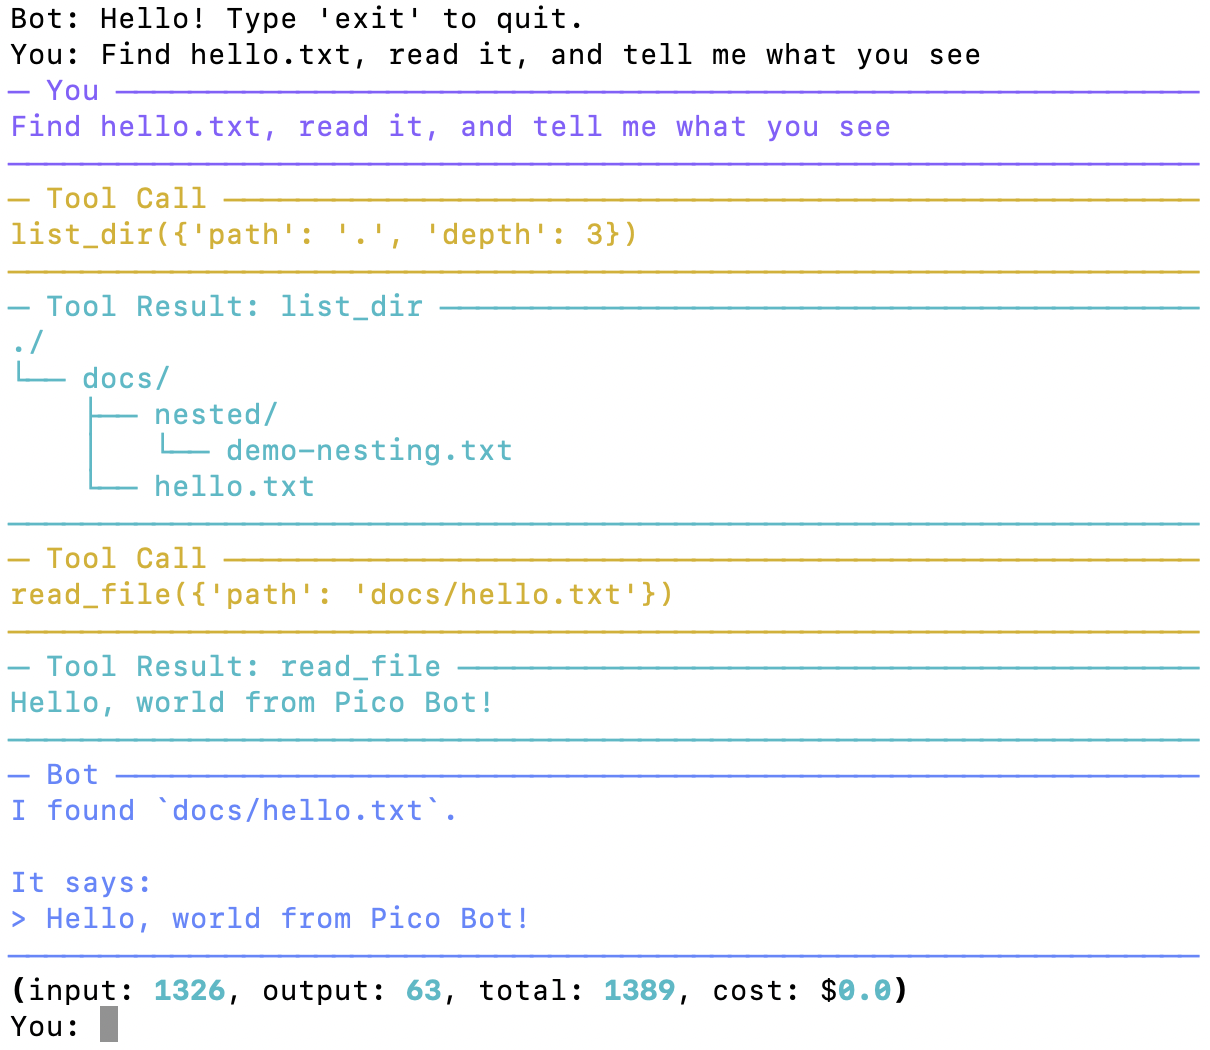
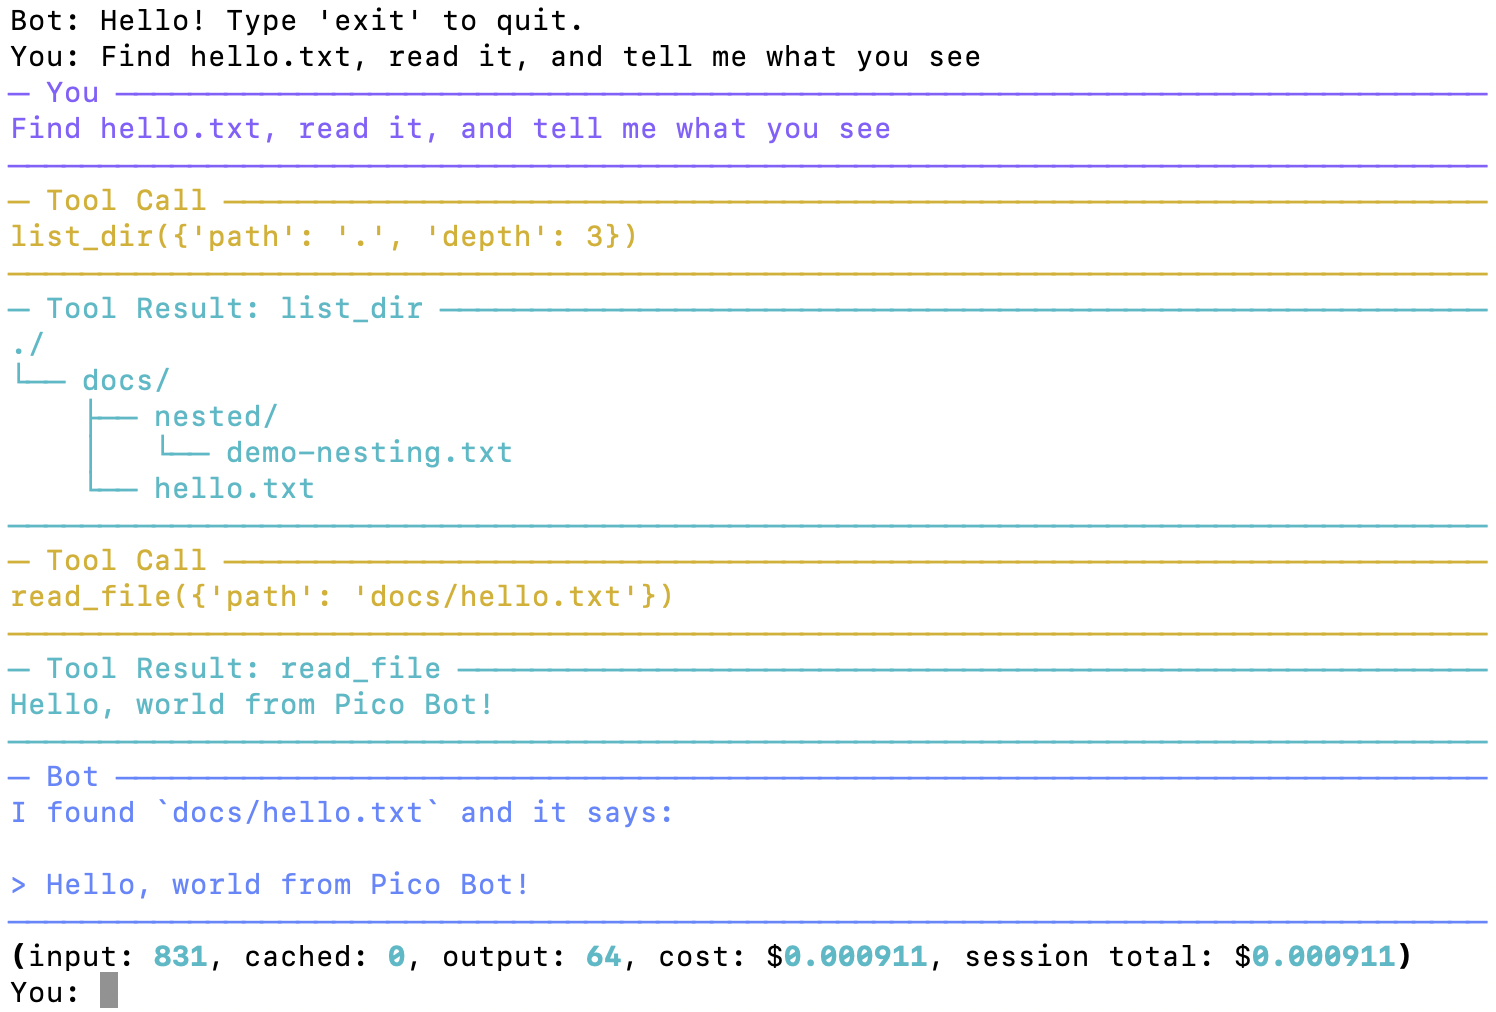
Bump version to 0.3 and refresh README screenshot

Changed region(s): [[0.0, 0.0, 1.0, 1.0], [0.3975, 0.4289, 0.4281, 0.4595]]

diff --git a/README.md b/README.md
@@ -4,13 +4,14 @@ A lightweight terminal-based AI assistant for simple, interactive chat.
 
 ## Features
 
--   Terminal chat interface
--   OpenAI integration via LangChain
--   Conversation memory
--   Safe local file access
--   Directory tree support in `list_dir`
--   `config.toml` support for `list_dir` defaults
--   Git-like ignore patterns to reduce token usage and improve privacy
+-   Terminal-based chat interface for quick, interactive use
+-   OpenAI integration powered by LangChain
+-   Conversation memory to preserve context during a session
+-   Safe local file access limited to the project root
+-   Recursive directory listing support
+-   `config.toml` support for customizing directory listing defaults
+-   Git-like ignore patterns to reduce noise, token usage, and accidental exposure of unneeded files
+-   Accurate cost tracking with cached input token support, down to 6 decimal places
 
 ## Screenshot
 
